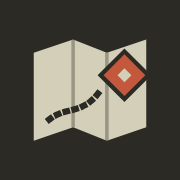
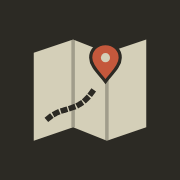
v1.7.2：圓形地圖標記、移除擋畫面的號碼、重畫圖示、App 圖示定位針
Claude-Session: https://claude.ai/code/session_015K3AjX9uqiRfEN2HU6P8sy

Changed region(s): [[0.4722, 0.25, 0.8333, 0.5833], [0.25, 0.4722, 0.5833, 0.6944]]

diff --git a/css/app.css b/css/app.css
@@ -27,7 +27,7 @@ input:focus, select:focus, textarea:focus { border-color: var(--ink); box-shadow
 textarea { resize: vertical; }
 hr { border: 0; border-top: 1px solid var(--hair); margin: 16px 0; }
 [hidden] { display: none !important; }
-.ic { width: 1.2em; height: 1.2em; flex: none; vertical-align: -0.24em; }
+.ic { width: 1.2em; height: 1.2em; flex: none; vertical-align: -0.24em; stroke-width: 1.6; overflow: visible; }
 
 /* ---------- 頂列 ---------- */
 #topbar { position: fixed; top: 0; left: 0; right: 0; z-index: 1000; display: flex; gap: 6px; align-items: center;
@@ -57,14 +57,16 @@ body.picking #map { cursor: crosshair; }
 #pickHint { position: fixed; top: calc(var(--top) + 12px); left: 50%; transform: translateX(-50%); z-index: 1100; background: var(--pri); color: var(--on-pri); padding: 8px 10px 8px 14px; display: flex; gap: 10px; align-items: center; white-space: nowrap; border: 1px solid var(--pri); outline: 1px solid var(--line); outline-offset: 3px; }
 #pickHint .btn { color: var(--on-pri); border-color: var(--on-pri); background: transparent; }
 
-/* 地圖標記：菱形 */
+/* 地圖標記：圓形＋小尾巴，圖示保持正向 */
 .pin-wrap { background: none; border: 0; }
-.pin { position: relative; width: 25px; height: 25px; margin: 2.5px; transform: rotate(45deg); background: var(--c); border: 2px solid #efe9d6; outline: 1px solid var(--c); box-shadow: 0 2px 6px rgba(0,0,0,.35); }
-.pin span { position: absolute; inset: 0; display: flex; align-items: center; justify-content: center; transform: rotate(-45deg); color: #f4efdf; font: 700 12px/1 var(--mono); }
+.pin { position: relative; width: 32px; height: 32px; border-radius: 50%; background: var(--c); border: 2px solid #f6f1e2; box-shadow: 0 2px 6px rgba(0,0,0,.35); display: flex; align-items: center; justify-content: center; }
+.pin::before { content: ""; position: absolute; left: 50%; bottom: -8px; width: 0; height: 0; margin-left: -6px; border: 6px solid transparent; border-top: 7px solid #f6f1e2; border-bottom: 0; }
+.pin::after { content: ""; position: absolute; left: 50%; bottom: -4.5px; width: 0; height: 0; margin-left: -4px; border: 4px solid transparent; border-top: 5px solid var(--c); border-bottom: 0; }
+.pin span { display: flex; align-items: center; justify-content: center; color: #fff; font: 700 12px/1 var(--mono); }
+.pin .ic { width: 19px; height: 19px; color: #fff; stroke-width: 2.1; }
 .pin.dim { opacity: .3; }
-.pin.base { transform: none; width: 28px; height: 28px; margin: 1px; background: #2f2c25; outline-color: #2f2c25; }
-.pin.base span { transform: none; }
-.pin.base .ic { width: 17px; height: 17px; }
+.pin.base { border-radius: 7px; background: #2f2c25; --c: #2f2c25; }
+.pin.base .ic { width: 18px; height: 18px; }
 .leaflet-popup-content-wrapper, .leaflet-popup-tip { background: var(--card); color: var(--ink); border-radius: 0; box-shadow: 0 3px 14px rgba(0,0,0,.3); }
 .leaflet-popup-content-wrapper { border: 1px solid var(--line); }
 .leaflet-popup-content { margin: 12px 14px; font-family: var(--sans); }
@@ -144,9 +146,8 @@ body.picking #map { cursor: crosshair; }
 .stop a { text-decoration: none; color: inherit; font-weight: 700; }
 .stop .muted { font-size: 12px; }
 .time { font: 700 12px var(--mono); color: var(--accent); letter-spacing: 0; }
-.num { flex: none; width: 22px; height: 22px; margin: 0 5px; background: var(--c); color: #f4efdf; display: inline-flex; align-items: center; justify-content: center; font: 700 11px var(--mono); transform: rotate(45deg); }
-.num span { transform: rotate(-45deg); }
-.num.base { background: var(--pri); color: var(--on-pri); transform: none; width: 26px; height: 26px; margin: 0 3px; }
+.num { flex: none; width: 24px; height: 24px; margin: 0 2px; border-radius: 50%; background: var(--c); color: #fff; display: inline-flex; align-items: center; justify-content: center; font: 700 11px var(--mono); }
+.num.base { background: var(--pri); color: var(--on-pri); border-radius: 6px; width: 26px; height: 26px; margin: 0 1px; }
 .daysel { width: 64px; min-height: 32px; padding: 3px 4px; font: 600 12px var(--mono); }
 .leg { display: flex; align-items: center; gap: 6px; padding: 6px 0 6px 14px; margin-left: 15px; border-left: 1px dashed var(--line); font-size: 13px; }
 .leg-info { flex: 1; min-width: 0; line-height: 1.4; }
@@ -227,7 +228,7 @@ html[data-theme="neon"] .btn, html[data-theme="neon"] .icon-btn, html[data-theme
 html[data-theme="neon"] .day { box-shadow: 5px 5px 0 var(--accent); }
 html[data-theme="neon"] .btn.primary, html[data-theme="neon"] #tabs button.on { box-shadow: 3px 3px 0 var(--accent); outline: 0; }
 html[data-theme="neon"] .day-h b, html[data-theme="neon"] .sec { font-style: italic; }
-html[data-theme="neon"] .pin { border-color: #101012; box-shadow: 3px 3px 0 rgba(255, 61, 127, .9); }
+html[data-theme="neon"] .pin { box-shadow: 3px 3px 0 rgba(255, 61, 127, .9); }
 html[data-theme="washi"] {
   --paper: #f5f0e6; --card: #fffdf8; --soft: #ebe4d6; --ink: #2a2a2a; --ink-soft: #444;
   --muted: #7d776b; --line: rgba(42, 42, 42, .35); --hair: rgba(42, 42, 42, .13);
@@ -249,9 +250,7 @@ html[data-theme="tide"] {
 }
 html[data-theme="tide"] .day { box-shadow: 0 2px 10px rgba(22, 50, 79, .06); }
 html[data-theme="tide"] .day::before, html[data-theme="tide"] .day::after { display: none; }
-html[data-theme="tide"] .pin { border-radius: 50% 50% 50% 4px; }
-html[data-theme="tide"] .num { border-radius: 50% 50% 50% 3px; }
-html[data-theme="washi"] .pin, html[data-theme="washi"] .num { border-radius: 3px; }
+html[data-theme="washi"] .num { border-radius: 3px; }
 /* 圓角變數套用 */
 .btn, .icon-btn, .fab, input, select, textarea, .day, .chip, .msg, .result, .modal-card, .base-row, .banner, .today, .themeopt, .catopt, #toast, .modes, .micon, #tabs button { border-radius: var(--r); }
 .leaflet-popup-content-wrapper { border-radius: var(--r) !important; }
@@ -261,14 +260,12 @@ html[data-theme="washi"] .pin, html[data-theme="washi"] .num { border-radius: 3p
    v1.3 元件
    ========================================================= */
 /* 地圖標記：菱形內是分類圖示，右上角是順序號碼 */
-.pin .ic { width: 17px; height: 17px; color: #f4efdf; }
-.pin em { position: absolute; right: -9px; top: -9px; transform: rotate(-45deg); min-width: 16px; height: 16px; padding: 0 3px; background: var(--paper); color: var(--ink); border: 1px solid var(--c); font: 700 10px/14px var(--mono); font-style: normal; text-align: center; }
 html[data-theme="neon"] .pin .ic, html[data-theme="neon"] .pin span { color: #101012; }
-.pin.done { filter: grayscale(.8) brightness(.95); opacity: .55; }
-.pin.done::after { content: ""; position: absolute; left: 50%; top: 50%; width: 6px; height: 11px; margin: -8px 0 0 -3px; border: solid #f4efdf; border-width: 0 2px 2px 0; }
-.pin.done .ic { opacity: .25; }
+html[data-theme="neon"] .pin { border-color: #101012; } html[data-theme="neon"] .pin::before { border-top-color: #101012; }
+.pin.done { filter: grayscale(.85); opacity: .6; }
+.pin.done .ic { opacity: .9; }
 .stop .cat { flex: none; width: 24px; height: 24px; display: inline-flex; align-items: center; justify-content: center; color: var(--ink-soft); }
-.stop .cat .ic { width: 19px; height: 19px; }
+.stop .cat .ic { width: 20px; height: 20px; stroke-width: 1.7; }
 .stop.is-done > .grow a { text-decoration: line-through; color: var(--muted); }
 .stop.is-done .num { opacity: .45; }
 .icon-btn.tick { color: var(--muted); }
@@ -328,3 +325,5 @@ html[data-theme="neon"] .pin .ic, html[data-theme="neon"] .pin span { color: #10
 .help-row { display: flex; gap: 10px; padding: 8px 0; border-bottom: 1px solid var(--hair); font-size: 14px; line-height: 1.5; }
 .help-row .cat { flex: none; color: var(--accent); } .help-row .cat .ic { width: 22px; height: 22px; }
 .help-row .muted { font-size: 13px; }
+
+.plabel b { display: inline-block; min-width: 16px; margin-right: 4px; padding: 0 3px; border-radius: 8px; background: var(--lc, var(--ink)); color: #fff; font: 700 10px/15px var(--mono); text-align: center; }

diff --git a/js/icons.js b/js/icons.js
@@ -40,14 +40,14 @@
     check: '<path d="M4.5 12.5l5 5 10-11"/>',
     ext: '<path d="M13.5 3.5h7v7M20.5 3.5L11 13"/><path d="M18 14v6.5H3.5V6H10"/>',
     // ---- 地點分類 ----
-    c_food: '<path d="M7 3v7.5a2 2 0 0 0 2 2V21M5 3v6M9 3v6M7 9.5V3"/><path d="M17.5 21V3c-2.2 1.2-3.5 3.8-3.5 7.5V13h3.5"/>',
+    c_food: '<path d="M5.5 3v5.5a2.5 2.5 0 0 0 5 0V3M8 3v18"/><path d="M18 21V3c-2.3 1.3-3.5 4-3.5 7.5V13H18"/>',
     c_cafe: '<path d="M4.5 9h12v5.5a4.5 4.5 0 0 1-4.5 4.5H9a4.5 4.5 0 0 1-4.5-4.5z"/><path d="M16.5 10.5h1.5a2.3 2.3 0 0 1 0 4.6h-1.8M3.5 21h15"/><path d="M8.5 3.5c-.8 1 .8 2 0 3M12.5 3.5c-.8 1 .8 2 0 3"/>',
     c_bar: '<path d="M4 4h16l-8 9z"/><path d="M12 13v7.5M8 20.5h8M15.5 4l2.5-2"/><circle cx="16.5" cy="7" r="1" fill="currentColor"/>',
-    c_station: '<rect x="5.5" y="3" width="13" height="14.5" rx="1"/><path d="M5.5 10.5h13M9 3v7.5M15 3v7.5"/><circle cx="9" cy="14" r=".9" fill="currentColor"/><circle cx="15" cy="14" r=".9" fill="currentColor"/><path d="M8 17.5L6 21M16 17.5l2 3.5"/>',
+    c_station: '<rect x="6" y="3" width="12" height="13" rx="2"/><path d="M6 9.5h12"/><circle cx="9.3" cy="12.8" r=".6" fill="currentColor"/><circle cx="14.7" cy="12.8" r=".6" fill="currentColor"/><path d="M9 16l-2.5 5M15 16l2.5 5M8 19h8"/>',
     c_airport: '<path d="M2.8 14.5L21 7.6c.8-.3.9-1.4.1-1.8-.6-.3-1.3-.3-1.9 0L14.5 8 7.6 4.6 5.5 5.5l4.6 4.3-4 1.6-2.4-1.3-1.5.7 2 3z"/><path d="M3 20.5h18"/>',
     c_shopping: '<path d="M4.5 8h15l-1 13h-13z"/><path d="M8.5 10.5V7a3.5 3.5 0 0 1 7 0v3.5"/>',
     c_market: '<path d="M3 9.5L4.5 4h15L21 9.5z"/><path d="M3 9.5a3 3 0 0 0 6 0 3 3 0 0 0 6 0 3 3 0 0 0 6 0"/><path d="M4.5 12v8.5h15V12M9.5 20.5v-5h5v5"/>',
-    c_museum: '<path d="M2.5 9L12 3.5 21.5 9z"/><path d="M4 21h16M3 21v-1.5h18V21M5.5 11.5v6M9.8 11.5v6M14.2 11.5v6M18.5 11.5v6M4 9v2.5h16V9"/>',
+    c_museum: '<path d="M3 9L12 4l9 5z"/><path d="M6 11.5v6.5M12 11.5v6.5M18 11.5v6.5M3.5 21h17M4.5 18.5h15"/>',
     c_temple: '<path d="M2.5 5.5c3 .8 6 1.2 9.5 1.2s6.5-.4 9.5-1.2"/><path d="M4.5 10h15M6.5 6.5V21M17.5 6.5V21M12 6.7V10"/>',
     c_castle: '<path d="M4 21V10h3V7.5h2.5V10h5V7.5H17V10h3v11z"/><path d="M10 21v-4.5a2 2 0 0 1 4 0V21M12 7.5V3l3.5 1.5L12 6"/>',
     c_park: '<path d="M12 21v-6.5"/><path d="M12 3L6 12h3l-3.5 4.5h13L15 12h3z"/>',
@@ -81,7 +81,7 @@
     filter: '<path d="M3.5 4.5h17l-6.5 8v6l-4 2v-8z"/>',
   };
   const sprite = '<svg xmlns="http://www.w3.org/2000/svg" style="display:none">' +
-    Object.entries(P).map(([k, v]) => '<symbol id="i-' + k + '" viewBox="0 0 24 24" fill="none" stroke="currentColor" stroke-width="1.6" stroke-linecap="square" stroke-linejoin="miter">' + v + '</symbol>').join('') + '</svg>';
+    Object.entries(P).map(([k, v]) => '<symbol id="i-' + k + '" viewBox="0 0 24 24" fill="none" stroke="currentColor" stroke-linecap="square" stroke-linejoin="miter">' + v + '</symbol>').join('') + '</svg>';
   function inject() {
     if (document.getElementById('icon-sprite')) return;
     const d = document.createElement('div'); d.id = 'icon-sprite'; d.innerHTML = sprite;

diff --git a/js/app.js b/js/app.js
@@ -7,7 +7,7 @@
   const catIc = (c) => I('c_' + (C.CATS[c] ? c : 'other'));
   const dc = (d) => { const pal = (THEME_PAL[activeTheme()] || C.PALETTE); return d > 0 ? pal[(d - 1) % pal.length] : 'var(--muted)'; };
   const stepIc = (e) => I(/🚌|🚎/.test(e) ? 'bus' : /⛴/.test(e) ? 'ferry' : 'transit');
-  const VERSION = '1.7.1';
+  const VERSION = '1.7.2';
   const STORE_KEY = 'tripmap.v1';
   const $ = (s, el) => (el || document).querySelector(s);
   const esc = (s) => String(s == null ? '' : s).replace(/[&<>"']/g, (c) => ({ '&': '&amp;', '<': '&lt;', '>': '&gt;', '"': '&quot;', "'": '&#39;' }[c]));
@@ -78,9 +78,9 @@
     tileLayer = L.tileLayer(t.url, { attribution: t.attr, maxZoom: t.max, subdomains: 'abcd', crossOrigin: true }).addTo(map);
   }
 
-  function pinIcon(color, label, cls, html, badge) {
-    return L.divIcon({ className: 'pin-wrap', html: '<div class="pin ' + (cls || '') + '" style="--c:' + color + '"><span>' + (html || esc(label)) + '</span>' + (badge ? '<em>' + esc(badge) + '</em>' : '') + '</div>',
-      iconSize: [30, 30], iconAnchor: [15, 15], popupAnchor: [0, -16] });
+  function pinIcon(color, label, cls, html) {
+    return L.divIcon({ className: 'pin-wrap', html: '<div class="pin ' + (cls || '') + '" style="--c:' + color + '"><span>' + (html || esc(label)) + '</span></div>',
+      iconSize: [32, 40], iconAnchor: [16, 40], popupAnchor: [0, -40] });
   }
 
   function renderMap(fit) {
@@ -93,9 +93,9 @@
       if (dim(p) && t.places.length > 300) continue;
       const num = p.day ? String(p.order + 1) : '';
       const cls = (dim(p) ? 'dim ' : '') + (p.done ? 'done' : '');
-      const m = L.marker([p.lat, p.lng], { icon: pinIcon(dc(p.day), '', cls, catIc(p.cat), num), title: p.name, zIndexOffset: dim(p) ? -100 : 0 });
+      const m = L.marker([p.lat, p.lng], { icon: pinIcon(dc(p.day), '', cls, catIc(p.cat)), title: p.name, zIndexOffset: dim(p) ? -100 : 0 });
       m.bindPopup(() => popupHtml(p), { maxWidth: 260 });
-      if (!dim(p) && t.places.length <= 300) m.bindTooltip(esc(p.name.length > 14 ? p.name.slice(0, 13) + '…' : p.name), { permanent: true, direction: 'right', offset: [14, 0], className: 'plabel' });
+      if (!dim(p) && t.places.length <= 300) m.bindTooltip((num ? '<b style="--lc:' + dc(p.day) + '">' + num + '</b>' : '') + esc(p.name.length > 14 ? p.name.slice(0, 13) + '…' : p.name), { permanent: true, direction: 'right', offset: [16, -18], className: 'plabel' });
       m.addTo(markerLayer);
     }
     for (const h of hotels(t)) {

diff --git a/sw.js b/sw.js
@@ -1,5 +1,5 @@
 /* Service worker：程式離線可開、看過的地圖圖磚離線可看 */
-const VERSION = 'v1.7.1';
+const VERSION = 'v1.7.2';
 const SHELL = 'shell-' + VERSION;
 const TILES = 'tiles-v1';
 const MAX_TILES = 3000;

diff --git a/tests/e2e.py b/tests/e2e.py
@@ -305,7 +305,10 @@ with sync_playwright() as p:
     vp.goto(BASE); vp.wait_for_selector('.welcome', state='attached'); vp.click('[data-act=sample]'); vp.wait_for_timeout(2000)
     cats = vp.evaluate('Object.fromEntries(TripApp.trip().places.map(p=>[p.name,p.cat]))')
     check('分類自動判斷（淺草寺=寺廟、晴空塔=展望、築地=市場、teamLab=美術館）', cats['淺草寺'] == 'temple' and cats['東京晴空塔'] == 'view' and cats['築地場外市場'] == 'market' and cats['teamLab Planets'] == 'museum', str(cats)[:120])
-    check('地圖標記顯示分類圖示＋順序號碼', vp.locator('.pin use[href="#i-c_temple"]').count() >= 1 and vp.locator('.pin em').count() >= 10)
+    check('地圖標記顯示分類圖示、不再有擋畫面的號碼', vp.locator('.pin use[href="#i-c_temple"]').count() >= 1 and vp.locator('.pin em').count() == 0)
+    vp.evaluate("document.querySelector('#map').classList.add('show-labels')")
+    check('放大後地名標籤帶順序號碼', vp.locator('.leaflet-tooltip.plabel b').count() >= 10)
+    vp.evaluate("document.querySelector('#map').classList.remove('show-labels')")
     # 營業時間警告：把每天出門時間改到 05:00 → 淺草寺 06:00 才開
     vp.fill('#dayStart', '04:30'); vp.dispatch_event('#dayStart', 'change'); vp.wait_for_timeout(300)
     check('營業時間衝突警告（太早到）', vp.locator('.warnline').count() >= 1, vp.locator('.warnline').first.inner_text() if vp.locator('.warnline').count() else '')

diff --git a/CHANGELOG.md b/CHANGELOG.md
@@ -1,5 +1,11 @@
 # 更新紀錄
 
+## 1.7.2 — 2026-11-20
+- 地圖標記改為正向圓形＋小尾巴：分類圖示不再被菱形框擠壓變形，線條在小尺寸加粗
+- 拿掉標記旁擋畫面的順序號碼；放大到街道層級時，號碼改顯示在地名標籤前
+- 重畫餐廳、車站、美術館圖示，小尺寸更清楚；清單裡的順序號碼改為圓形
+- App 圖示：紅色定位改小、改成插在地圖上的定位針
+
 ## 1.7.1 — 2026-11-20
 - App 內「使用說明」（歡迎畫面與設定裡都有），同事不用看 README 也知道怎麼操作
 

diff --git a/README.md b/README.md
@@ -139,5 +139,5 @@ tests/                單元測試＋端對端測試
 ```bash
 node --test tests/core.test.js     # 31 項單元測試
 pip install playwright pillow
-python3 tests/e2e.py               # 68 項端對端測試（模擬外部服務），截圖輸出到 tests/out/
+python3 tests/e2e.py               # 69 項端對端測試（模擬外部服務），截圖輸出到 tests/out/
 ```
